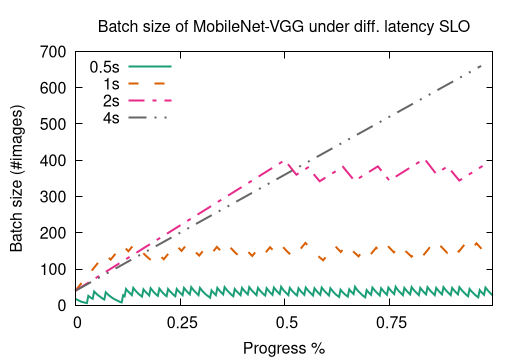
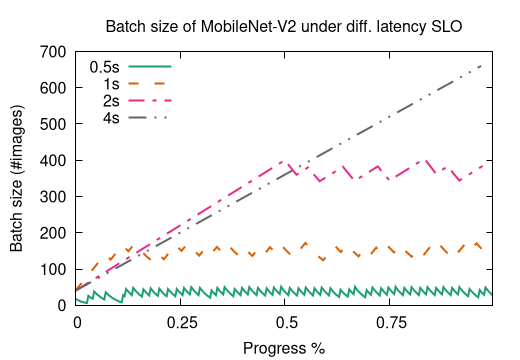
change function name

Changed region(s): [[0.1846, 0.0306, 0.9231, 0.0917]]

diff --git a/serverless/slo/process.py b/serverless/slo/process.py
@@ -26,7 +26,7 @@ def run():
 
     os.system("""gnuplot -e "fname='{}'" -e "plot_title='{}'" -e "y_title='{}'" -c thruput.gnu"""
         .format('vgg',
-                'Throughput of MobileNet-VGG under diff. latency SLO',
+                'Throughput of MobileNet-V2 under diff. latency SLO',
                 'Throughput (#images/s)'))
     
     os.system("""gnuplot -e "fname='{}'" -e "plot_title='{}'" -e "y_title='{}'" -c thruput.gnu"""
@@ -48,7 +48,7 @@ def run():
 
     os.system("""gnuplot -e "fname='{}'" -e "plot_title='{}'" -e "y_title='{}'" -c batch.gnu"""
         .format('vgg',
-                'Batch size of MobileNet-VGG under diff. latency SLO',
+                'Batch size of MobileNet-V2 under diff. latency SLO',
                 'Batch size (#images)'))
     
     os.system("""gnuplot -e "fname='{}'" -e "plot_title='{}'" -e "y_title='{}'" -c batch.gnu"""
@@ -64,7 +64,7 @@ def run():
 
     os.system("""gnuplot -e "fname='{}'" -e "plot_title='{}'" -e "y_title='{}'" -c latency.gnu"""
         .format('vgg',
-                'Latency of MobileNet-VGG under diff. Batch size',
+                'Latency of MobileNet-V2 under diff. Batch size',
                 'Latency (s)'))
     os.system("""gnuplot -e "fname='{}'" -e "plot_title='{}'" -e "y_title='{}'" -c latency.gnu"""
         .format('inception',
